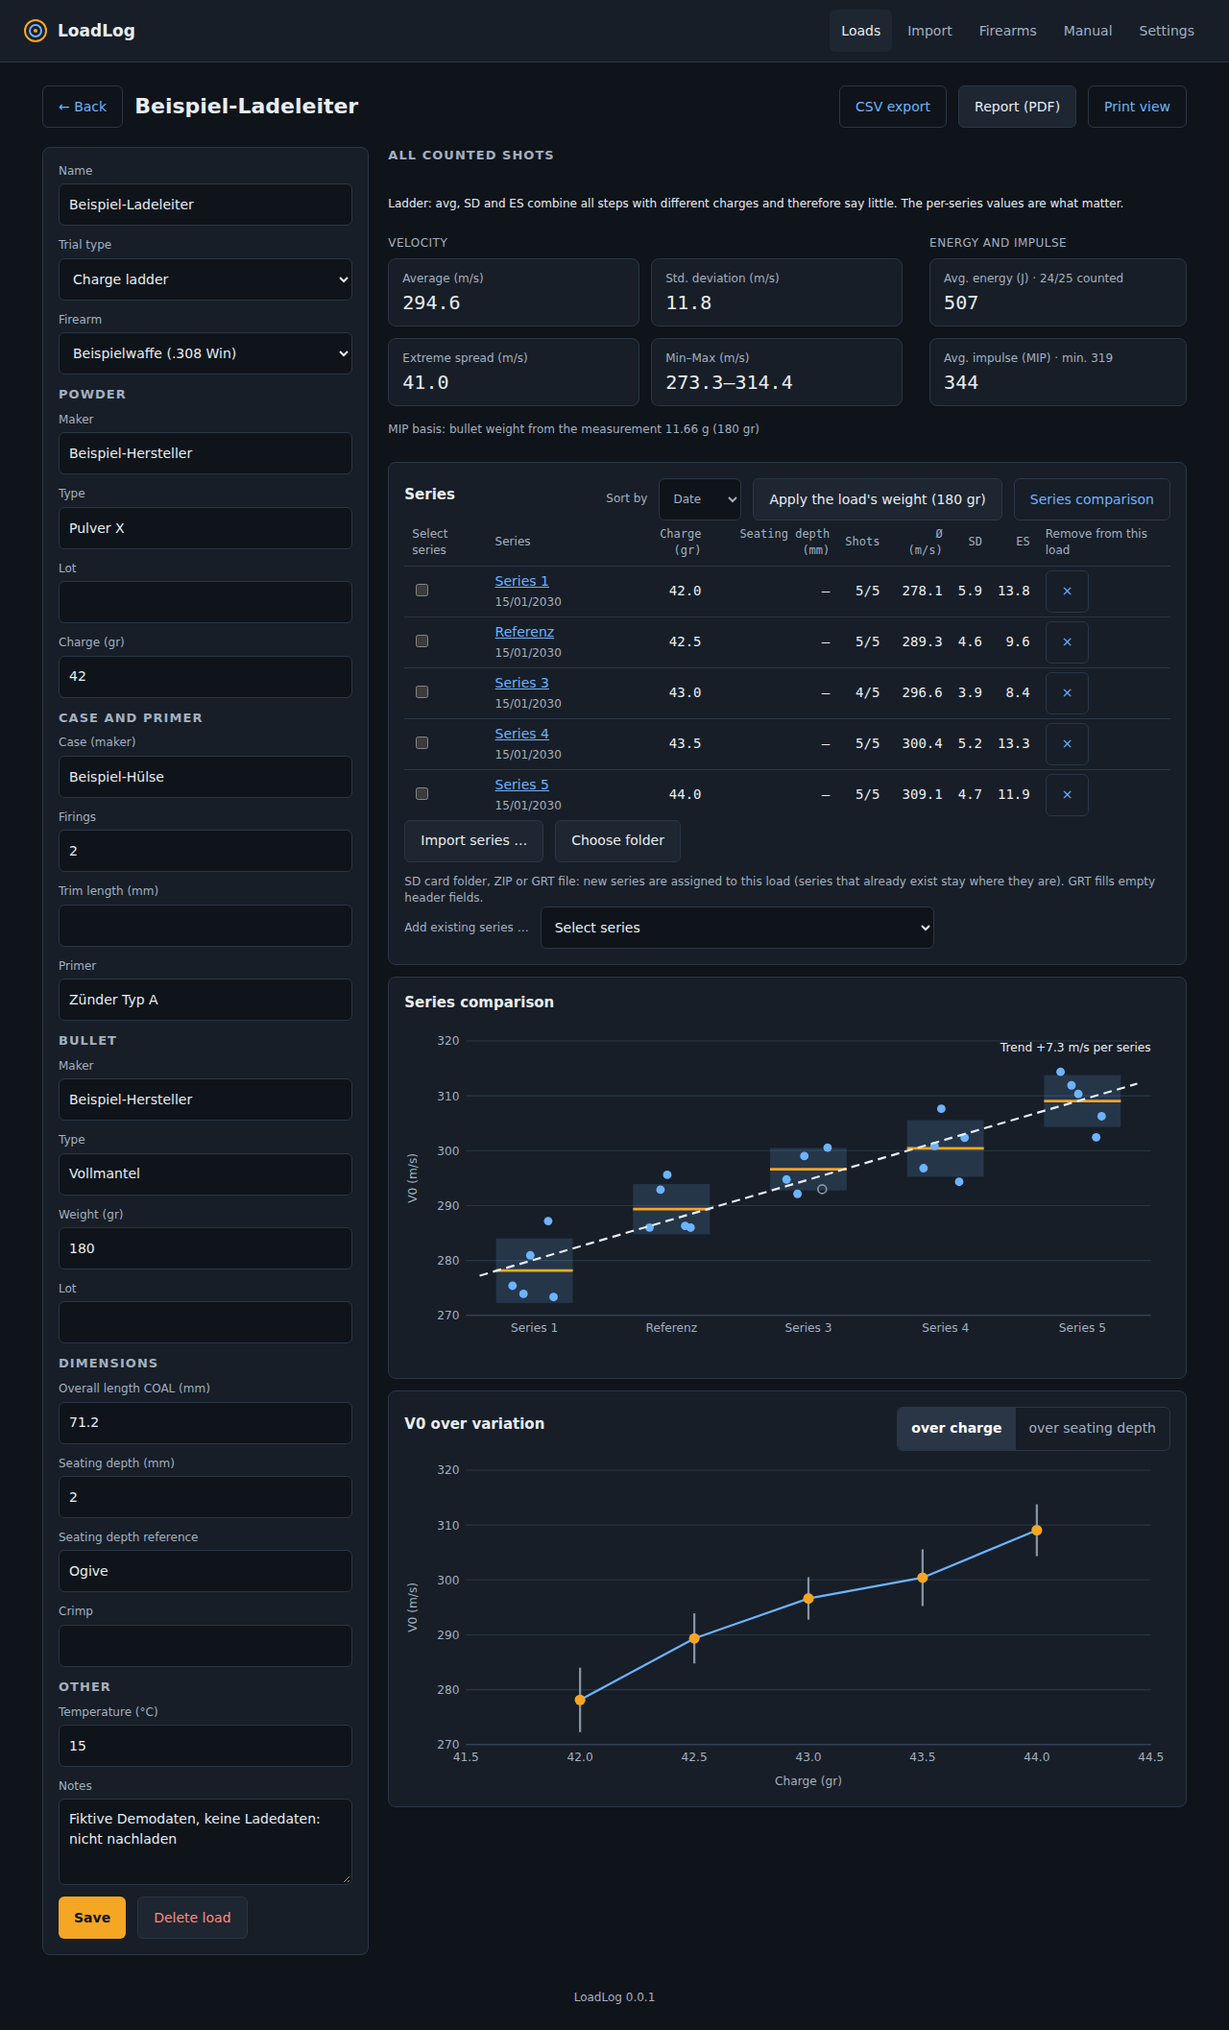
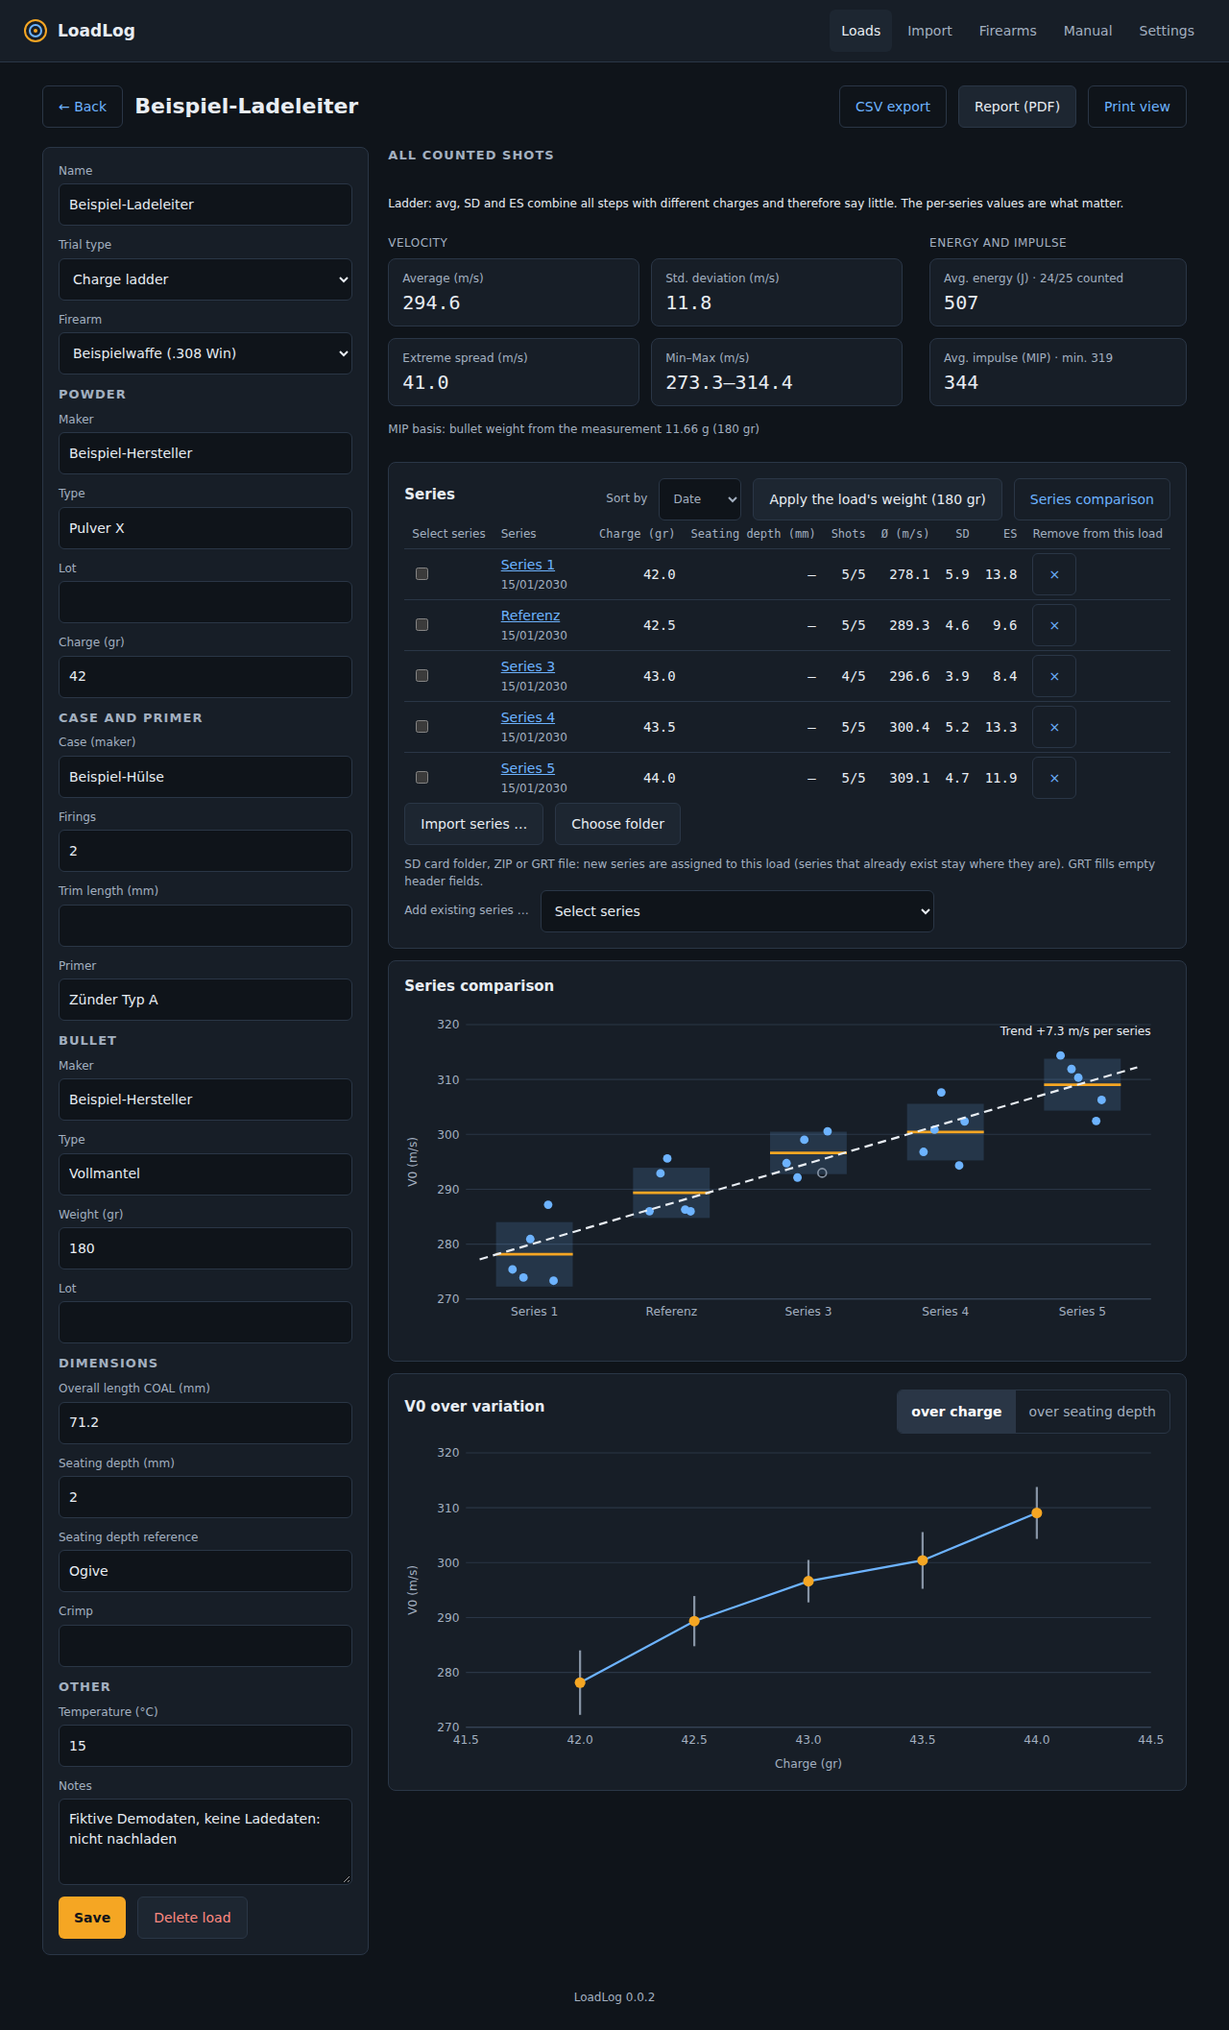
Handy-Ansicht: Tabellen als Karten, Beschriftungen und Knöpfe brechen nicht mehr unglücklich um; Screenshots in der README
Serien einer Laborierung, Schüsse und Serienvergleich erscheinen auf schmalen Bildschirmen als Karten mit Beschriftung über jedem Wert, nichts wird mehr abgeschnitten. Beschriftung und Schalter bei Sprache und Einheiten bleiben zusammen, die Waffenliste ordnet Knöpfe unter den Text.
Handbuch-Screenshots neu aufgenommen, zwei Screenshots in README (DE/EN).

diff --git a/frontend/src/views.tsx b/frontend/src/views.tsx
@@ -219,15 +219,19 @@ export function SettingsView() {
       <section class="panel col">
         <h2>{t("sysDisplay")}</h2>
         <div class="row">
-          <span class="flabel">{t("language")}</span>
-          <div class="seg" role="group" aria-label={t("language")}>
-            <button aria-pressed={lang === "de"} onClick={() => setLang("de")}>Deutsch</button>
-            <button aria-pressed={lang === "en"} onClick={() => setLang("en")}>English</button>
+          <div class="pair">
+            <span class="flabel">{t("language")}</span>
+            <div class="seg" role="group" aria-label={t("language")}>
+              <button aria-pressed={lang === "de"} onClick={() => setLang("de")}>Deutsch</button>
+              <button aria-pressed={lang === "en"} onClick={() => setLang("en")}>English</button>
+            </div>
           </div>
-          <span class="flabel">{t("units")}</span>
-          <div class="seg" role="group" aria-label={t("units")}>
-            <button aria-pressed={units === "si"} onClick={() => setUnits("si")}>m/s · J</button>
-            <button aria-pressed={units === "imp"} onClick={() => setUnits("imp")}>fps · ft-lbf</button>
+          <div class="pair">
+            <span class="flabel">{t("units")}</span>
+            <div class="seg" role="group" aria-label={t("units")}>
+              <button aria-pressed={units === "si"} onClick={() => setUnits("si")}>m/s · J</button>
+              <button aria-pressed={units === "imp"} onClick={() => setUnits("imp")}>fps · ft-lbf</button>
+            </div>
           </div>
         </div>
         <div class="muted small">{t("sysDisplayHint")}</div>
@@ -569,19 +573,19 @@ export function LoadView({ id }: { id: number | null }) {
               {series.length === 0 && <p class="muted">{t("none")}</p>}
               {series.length > 0 && (
                 <div style={{ overflowX: "auto" }}>
-                  <table>
+                  <table class="rt">
                     <thead><tr><th><span class="muted small">{t("selectSeries")}</span></th><th>{t("series")}</th><th class="n">{t("charge_gr")}</th><th class="n">{t("seating_depth_mm")}</th><th class="n">{t("shots")}</th><th class="n">Ø ({u.v})</th><th class="n">SD</th><th class="n">ES</th><th><span class="muted small">{t("removeHere")}</span></th></tr></thead>
                     <tbody>
                       {series.map((s) => (
                         <tr key={s.id}>
-                          <td><input type="checkbox" aria-label={`${t("selectSeries")} ${s.number}`} checked={picked.includes(s.id)} onChange={() => toggle(s.id)} style={{ width: 20, height: 20 }} /></td>
-                          <td><a href={`#/series/${s.id}`}>{seriesLabel(s, t("series"))}</a> <span class="muted small">{dateText(s.taken_at, lang)}</span></td>
-                          <td class="n">{fmt(s.charge_gr, 1, lang)}</td><td class="n">{fmt(s.seating_depth_mm, 2, lang)}</td>
-                          <td class="n">{s.stats.n}/{s.shots_total}</td>
-                          <td class="n">{fmt(s.stats.avg === null ? null : vOut(s.stats.avg, units), 1, lang)}</td>
-                          <td class="n">{fmt(s.stats.sd === null ? null : vOut(s.stats.sd, units), 1, lang)}</td>
-                          <td class="n">{fmt(s.stats.es === null ? null : vOut(s.stats.es, units), 1, lang)}</td>
-                          <td><button class="btn ghost" title={t("removeHereHint")} aria-label={`${t("removeHere")}: ${seriesLabel(s, t("series"))}`} onClick={() => unlink(s.id)}>×</button></td>
+                          <td class="c-sel"><input type="checkbox" aria-label={`${t("selectSeries")} ${s.number}`} checked={picked.includes(s.id)} onChange={() => toggle(s.id)} style={{ width: 20, height: 20 }} /></td>
+                          <td class="c-name"><a href={`#/series/${s.id}`}>{seriesLabel(s, t("series"))}</a> <span class="muted small">{dateText(s.taken_at, lang)}</span></td>
+                          <td class="n" data-label={t("charge_gr")}>{fmt(s.charge_gr, 1, lang)}</td><td class="n" data-label={t("seating_depth_mm")}>{fmt(s.seating_depth_mm, 2, lang)}</td>
+                          <td class="n" data-label={t("shots")}>{s.stats.n}/{s.shots_total}</td>
+                          <td class="n" data-label={`Ø (${u.v})`}>{fmt(s.stats.avg === null ? null : vOut(s.stats.avg, units), 1, lang)}</td>
+                          <td class="n" data-label="SD">{fmt(s.stats.sd === null ? null : vOut(s.stats.sd, units), 1, lang)}</td>
+                          <td class="n" data-label="ES">{fmt(s.stats.es === null ? null : vOut(s.stats.es, units), 1, lang)}</td>
+                          <td class="c-x"><button class="btn ghost" title={t("removeHereHint")} aria-label={`${t("removeHere")}: ${seriesLabel(s, t("series"))}`} onClick={() => unlink(s.id)}>×</button></td>
                         </tr>
                       ))}
                     </tbody>
@@ -710,18 +714,18 @@ export function SeriesView({ id }: { id: number }) {
         <section class="panel main" aria-label={t("shots")}>
           <h2>{t("shots")}</h2>
           <div style={{ overflowX: "auto" }}>
-            <table>
+            <table class="rt rt-shots">
               <thead><tr><th>#</th><th class="n">V0 ({u.v})</th><th class="n">{t("energyCol")} ({u.e})</th><th class="n">{t("impulseCol")}</th><th>{t("time")}</th><th>{t("signal")}</th><th>{t("status")}</th></tr></thead>
               <tbody>
                 {data.shots.map((s) => (
                   <tr key={s.number} class={`pickable ${s.number === sel ? "sel" : ""} ${s.excluded ? "ex" : ""}`} onClick={() => setSel(s.number)}>
-                    <td><button class="plain" onClick={() => setSel(s.number)} aria-label={`${t("shot")} ${s.number}`}>{s.number}</button></td>
-                    <td class="n v0">{fmt(vOut(s.v0_ms, units), 1, lang)}</td>
-                    <td class="n">{fmt(eOut(s.energy0_j, units), 0, lang)}</td>
-                    <td class="n">{fmt(s.mip, 0, lang)}</td>
-                    <td class="mono small">{s.taken_at.slice(11, 19)}</td>
-                    <td><Bars n={s.signal_strength} /></td>
-                    <td>
+                    <td class="c-num"><button class="plain" onClick={() => setSel(s.number)} aria-label={`${t("shot")} ${s.number}`}>{s.number}</button></td>
+                    <td class="n v0" data-label={`V0 (${u.v})`}>{fmt(vOut(s.v0_ms, units), 1, lang)}</td>
+                    <td class="n" data-label={`${t("energyCol")} (${u.e})`}>{fmt(eOut(s.energy0_j, units), 0, lang)}</td>
+                    <td class="n" data-label={t("impulseCol")}>{fmt(s.mip, 0, lang)}</td>
+                    <td class="mono small" data-label={t("time")}>{s.taken_at.slice(11, 19)}</td>
+                    <td data-label={t("signal")}><Bars n={s.signal_strength} /></td>
+                    <td class="c-status">
                       <button class="btn" style={{ minWidth: 130, justifyContent: "center" }} aria-pressed={s.excluded} onClick={(e) => { e.stopPropagation(); toggleShot(s.number, !s.excluded); }}>
                         {s.excluded ? t("excluded") : t("included")}
                       </button>
@@ -826,7 +830,7 @@ export function CompareView({ ids }: { ids: number[] }) {
         <SvgChart url={urls.compareChart(ids, { trend, lang, units })} />
       </section>
       <section class="panel" style={{ overflowX: "auto" }}>
-        <table>
+        <table class="rt">
           <thead><tr><th>{t("series")}</th><th class="n">{t("shots")}</th><th class="n">{t("charge_gr")}</th><th class="n">{t("seating_depth_mm")}</th><th class="n">Ø ({u.v})</th><th class="n">SD</th><th class="n">ES</th><th class="n">Δ Ø</th></tr></thead>
           <tbody>
             {data.map((s: SeriesDetail) => {
@@ -835,12 +839,12 @@ export function CompareView({ ids }: { ids: number[] }) {
               if (avg !== null) prev = avg;
               return (
                 <tr key={s.id}>
-                  <td><a href={`#/series/${s.id}`}>{seriesLabel(s, t("series"))}</a></td>
-                  <td class="n">{s.stats.n}/{s.shots_total}</td><td class="n">{fmt(s.charge_gr, 1, lang)}</td><td class="n">{fmt(s.seating_depth_mm, 2, lang)}</td>
-                  <td class="n">{fmt(avg, 1, lang)}</td>
-                  <td class="n">{fmt(s.stats.sd === null ? null : vOut(s.stats.sd, units), 1, lang)}</td>
-                  <td class="n">{fmt(s.stats.es === null ? null : vOut(s.stats.es, units), 1, lang)}</td>
-                  <td class="n">{delta === null ? "–" : `${delta >= 0 ? "+" : "−"}${fmt(Math.abs(delta), 1, lang)}`}</td>
+                  <td class="c-full"><a href={`#/series/${s.id}`}>{seriesLabel(s, t("series"))}</a></td>
+                  <td class="n" data-label={t("shots")}>{s.stats.n}/{s.shots_total}</td><td class="n" data-label={t("charge_gr")}>{fmt(s.charge_gr, 1, lang)}</td><td class="n" data-label={t("seating_depth_mm")}>{fmt(s.seating_depth_mm, 2, lang)}</td>
+                  <td class="n" data-label={`Ø (${u.v})`}>{fmt(avg, 1, lang)}</td>
+                  <td class="n" data-label="SD">{fmt(s.stats.sd === null ? null : vOut(s.stats.sd, units), 1, lang)}</td>
+                  <td class="n" data-label="ES">{fmt(s.stats.es === null ? null : vOut(s.stats.es, units), 1, lang)}</td>
+                  <td class="n" data-label="Δ Ø">{delta === null ? "–" : `${delta >= 0 ? "+" : "−"}${fmt(Math.abs(delta), 1, lang)}`}</td>
                 </tr>
               );
             })}
@@ -1040,12 +1044,12 @@ export function WeaponsView() {
       </section>
       <section class="panel">
         {data.length === 0 && <p class="muted">{t("none")}</p>}
-        <table>
+        <table class="wlist">
           <tbody>
             {data.map((w) => (
               <tr key={w.id}>
                 <td><strong>{w.name}</strong> <span class="muted small">{[w.caliber, w.barrel_length_mm ? `${w.barrel_length_mm} mm` : null, w.twist].filter(Boolean).join(" · ")}</span></td>
-                <td style={{ width: 200, textAlign: "right" }}>
+                <td class="acts">
                   <button class="btn" onClick={() => edit(w)}>{t("open")}</button>{" "}
                   <button class="btn danger" onClick={() => remove(w)}>{t("remove")}</button>
                 </td>

diff --git a/frontend/src/styles.css b/frontend/src/styles.css
@@ -44,7 +44,28 @@ textarea { padding: 10px; min-height: 90px; } input.bad { border-color: var(--da
 .drop { border: 2px dashed var(--border); border-radius: 10px; padding: 28px 20px; text-align: center; } .drop.over { border-color: var(--amber); background: var(--panel2); }
 .msg { padding: 10px 14px; border-radius: 6px; background: var(--panel2); border: 1px solid var(--border); } .msg.err { border-color: var(--danger); color: var(--danger); }
 .sidebar-layout { display: flex; flex-wrap: wrap; gap: 20px; align-items: flex-start; } .sidebar-layout > .main { flex: 999 1 520px; min-width: 0; } .sidebar-layout > .side { flex: 1 1 340px; min-width: 0; }
-@media (max-width: 600px) { main { padding: 16px; } header { padding: 10px 16px; } }
+.pair { display: flex; align-items: center; gap: 12px; } .wlist td.acts { width: 200px; text-align: right; white-space: nowrap; }
+.btn { text-wrap: balance; text-align: center; justify-content: center; } th { white-space: nowrap; }
+@media (max-width: 600px) {
+  main { padding: 16px; } header { padding: 10px 16px; }
+  .btn { padding: 0 12px; }
+  nav.top { flex: 1 1 100%; } nav.top a { flex: 1 1 auto; justify-content: center; padding: 10px 8px; }
+  td, th { padding-left: 5px; padding-right: 5px; }
+  .wlist, .wlist tbody, .wlist tr, .wlist td { display: block; } .wlist td { border: 0; padding: 4px 0; }
+  .wlist tr { padding: 8px 0; border-top: 1px solid var(--border); } .wlist td.acts { width: auto; text-align: left; display: flex; gap: 8px; } .wlist td.acts .btn { flex: 1 1 0; }
+  /* Tabellen als Karten: Beschriftung über jedem Wert, nichts bricht um oder verschwindet hinter dem Rand */
+  .rt, .rt tbody { display: block; }
+  .rt thead { position: absolute; width: 1px; height: 1px; overflow: hidden; clip: rect(0 0 0 0); }
+  .rt tr { display: grid; grid-template-columns: repeat(12, minmax(0, 1fr)); gap: 10px; align-items: start; padding: 12px 4px; border-top: 1px solid var(--border); }
+  .rt td { display: block; grid-column: span 6; border: 0; padding: 0; text-align: left; min-width: 0; }
+  .rt td.n { text-align: left; }
+  .rt td[data-label]::before { content: attr(data-label); display: block; margin-bottom: 2px; font: 11px/1.3 "IBM Plex Sans", system-ui, sans-serif; color: var(--muted); white-space: nowrap; }
+  .rt td.c-sel { grid-column: 1 / 3; grid-row: 1; align-self: center; } .rt td.c-name { grid-column: 3 / 11; grid-row: 1; align-self: center; } .rt td.c-x { grid-column: 11 / 13; grid-row: 1; justify-self: end; align-self: center; }
+  .rt td.c-full { grid-column: 1 / -1; font-weight: 500; }
+  .rt-shots td.c-num { grid-column: 1 / 5; grid-row: 1; align-self: center; } .rt-shots td.c-num .plain { min-height: 36px; width: auto; font-weight: 600; }
+  .rt-shots td.c-status { grid-column: 5 / -1; grid-row: 1; justify-self: end; align-self: center; } .rt-shots td.c-status .btn { min-width: 0 !important; }
+  tr.sel { background: var(--panel2); box-shadow: inset 3px 0 0 var(--amber); } tr.sel td { background: transparent; box-shadow: none; }
+}
 .load-group { margin-top: 20px; } .group-title { margin: 0 0 10px; font-size: 16px; }
 .loads-list { background: var(--panel); border: 1px solid var(--border); border-radius: 8px; } .loads-list td { padding: 8px; border-top: 1px solid var(--border); } .loads-list td.n, .loads-list th.n { text-align: right; font-family: "IBM Plex Mono", monospace; }
 .chip { display: inline-flex; align-items: center; gap: 6px; padding: 4px 6px 4px 12px; border: 1px solid var(--border); border-radius: 16px; background: var(--panel2); }
@@ -61,3 +82,5 @@ label.btn[aria-disabled="true"] { opacity: .5; pointer-events: none; }
 .stat-groups .cards4 { grid-template-columns: repeat(2, minmax(0, 1fr)); } .stat-groups .cards2 { grid-template-columns: minmax(0, 1fr); }
 .stat-groups .card { min-width: 0; } .stat-groups .card .l { overflow-wrap: anywhere; }
 .note-box { margin-top: 6px; padding: 10px 14px; border-left: 4px solid var(--amber, #f5a623); background: var(--panel2); border-radius: 4px; font-size: 13px; }
+@media (min-width: 481px) and (max-width: 600px) { .rt td { grid-column: span 4; } }
+@media (max-width: 600px) { .rt-shots td { grid-column: span 4; } .rt-shots td.c-num { grid-column: 1 / 5; } .rt-shots td.c-status { grid-column: 5 / -1; } }

diff --git a/frontend/tests/components.test.tsx b/frontend/tests/components.test.tsx
@@ -147,6 +147,16 @@ describe("Serie: Laborierungen", () => {
     expect(text).not.toMatch(/349,6|340,2/);
   });
 
+  it("Schusstabelle trägt Beschriftungen an den Zellen (Kartenansicht auf dem Handy)", async () => {
+    const view = mount(<SeriesView id={7} />, { units: "si" });
+    await screen.findByText("Laborierungen dieser Serie");
+    const table = view.container.querySelector("table.rt-shots")!;
+    expect(table).toBeTruthy();
+    const labels = [...table.querySelectorAll("tbody tr:first-child td[data-label]")].map((td) => td.getAttribute("data-label"));
+    expect(labels).toEqual(expect.arrayContaining(["V0 (m/s)", "Energie (J)", "MIP", "Zeit", "Signal"]));
+    expect(table.querySelector("td.c-status button")).toBeTruthy(); // Schuss ausschließen bleibt erreichbar
+  });
+
   it("Exportlink verweist auf CSV mit Sprache und Einheiten", async () => {
     mount(<SeriesView id={7} />, { lang: "en", units: "imp" });
     const a = (await screen.findByText("CSV export")).closest("a")!;

diff --git a/CHANGELOG.md b/CHANGELOG.md
@@ -2,13 +2,21 @@
 
 Versionsnummern sind dreistufig (`Major.Minor.Patch`) und werden von Hand erhöht. Das Handbuch gilt für `Major.Minor`.
 
-## 0.0.1 (in Arbeit, noch nicht veröffentlicht)
+## 0.0.2
 
-Erster Stand, noch ohne Release.
+Änderungen nach der Veröffentlichung auf GitHub.
 
 - **CI:** Die Workflows lassen sich zusätzlich von Hand starten (`workflow_dispatch`).
 - **Deutsches Datumsformat:** Im CSV-Export steht das Datum auf Deutsch als `tt.mm.jjjj` (Uhrzeit `hh:mm:ss`); Oberfläche und PDF-Berichte nutzten es bereits.
 - **Haftungsausschluss:** Gefahrenhinweise zu Überdruck, Verletzung und Tod entfernt; Verantwortung, Gewährleistungs- und Haftungsregelung unverändert. In der App „auf eigene Verantwortung“ statt „auf eigene Gefahr“.
+- **README:** Zwei Screenshots (Serienansicht, Serienvergleich; fiktive Beispieldaten) in der deutschen und englischen Fassung.
+- **Einstellungen:** Der Menüpunkt *System* heißt jetzt *Einstellungen* (Adresse `#/settings`).
+- **Technik:** Node 26 (LTS) für den Frontend-Build, Dependabot nur für LTS-Versionen von Node, Python-Abhängigkeiten aktualisiert.
+- **Handy-Ansicht:** Tabellen (Serien einer Laborierung, Schüsse, Serienvergleich) erscheinen auf schmalen Bildschirmen als Karten mit Beschriftung über jedem Wert; nichts wird mehr abgeschnitten, Knöpfe und Beschriftungen brechen nicht mehr unglücklich um.
+
+## 0.0.1
+
+Erster Stand.
 
 - **Import:** LabRadar-SD-Karten (Ordner, ZIP, mehrere gleichzeitig, Drag & Drop, auch Ordnerwahl am Mac) und GRT-Dateien
   (`.grtload`, legt Laborierung und Serien an). Import auch direkt in einer Laborierung. Mehrfachauswahl mit Zuordnen,

diff --git a/README.md b/README.md
@@ -11,6 +11,12 @@ Laborierungs-**Journal** und Auswertung für Chronograph-Daten: importiert die S
 Ausreißer aus und zeigt Statistik, Impuls, Ballistischen Koeffizienten, Geschwindigkeitsverläufe, Serienvergleiche, Ladeleitern
 und Trends. Berichte als PDF, Export als CSV. Oberfläche und Handbuch auf Deutsch und Englisch.
 
+![Serienansicht mit Kennzahlen und Geschwindigkeitsverlauf](docs/img/series-de.png)
+
+![Serienvergleich mit Trendlinie](docs/manual/img/de/04-compare.png)
+
+<sub>Fiktive Beispieldaten.</sub>
+
 ### Abgrenzung: Journal, keine Laborierungsentwicklung
 
 LoadLog **legt ab und wertet aus, was du selbst geladen und gemessen hast**. Es ist **kein Werkzeug zur Entwicklung von Laborierungen**:
@@ -90,6 +96,12 @@ ist selbst für den Datenschutz verantwortlich.
 Load **journal** and evaluation for chronograph data: imports the SD card data of a **LabRadar** (unofficial, not affiliated with the
 manufacturer) as well as GRT files (`.grtload`), assigns series to loads, excludes outliers and shows statistics, impulse, ballistic
 coefficient, velocity tracks, series comparisons, charge ladders and trends. PDF reports, CSV export. UI and manual in German and English.
+
+![Series view with statistics and velocity tracks](docs/img/series-en.png)
+
+![Series comparison with trend line](docs/manual/img/en/04-compare.png)
+
+<sub>Fictional sample data.</sub>
 
 ### Scope: a journal, not load development
 
